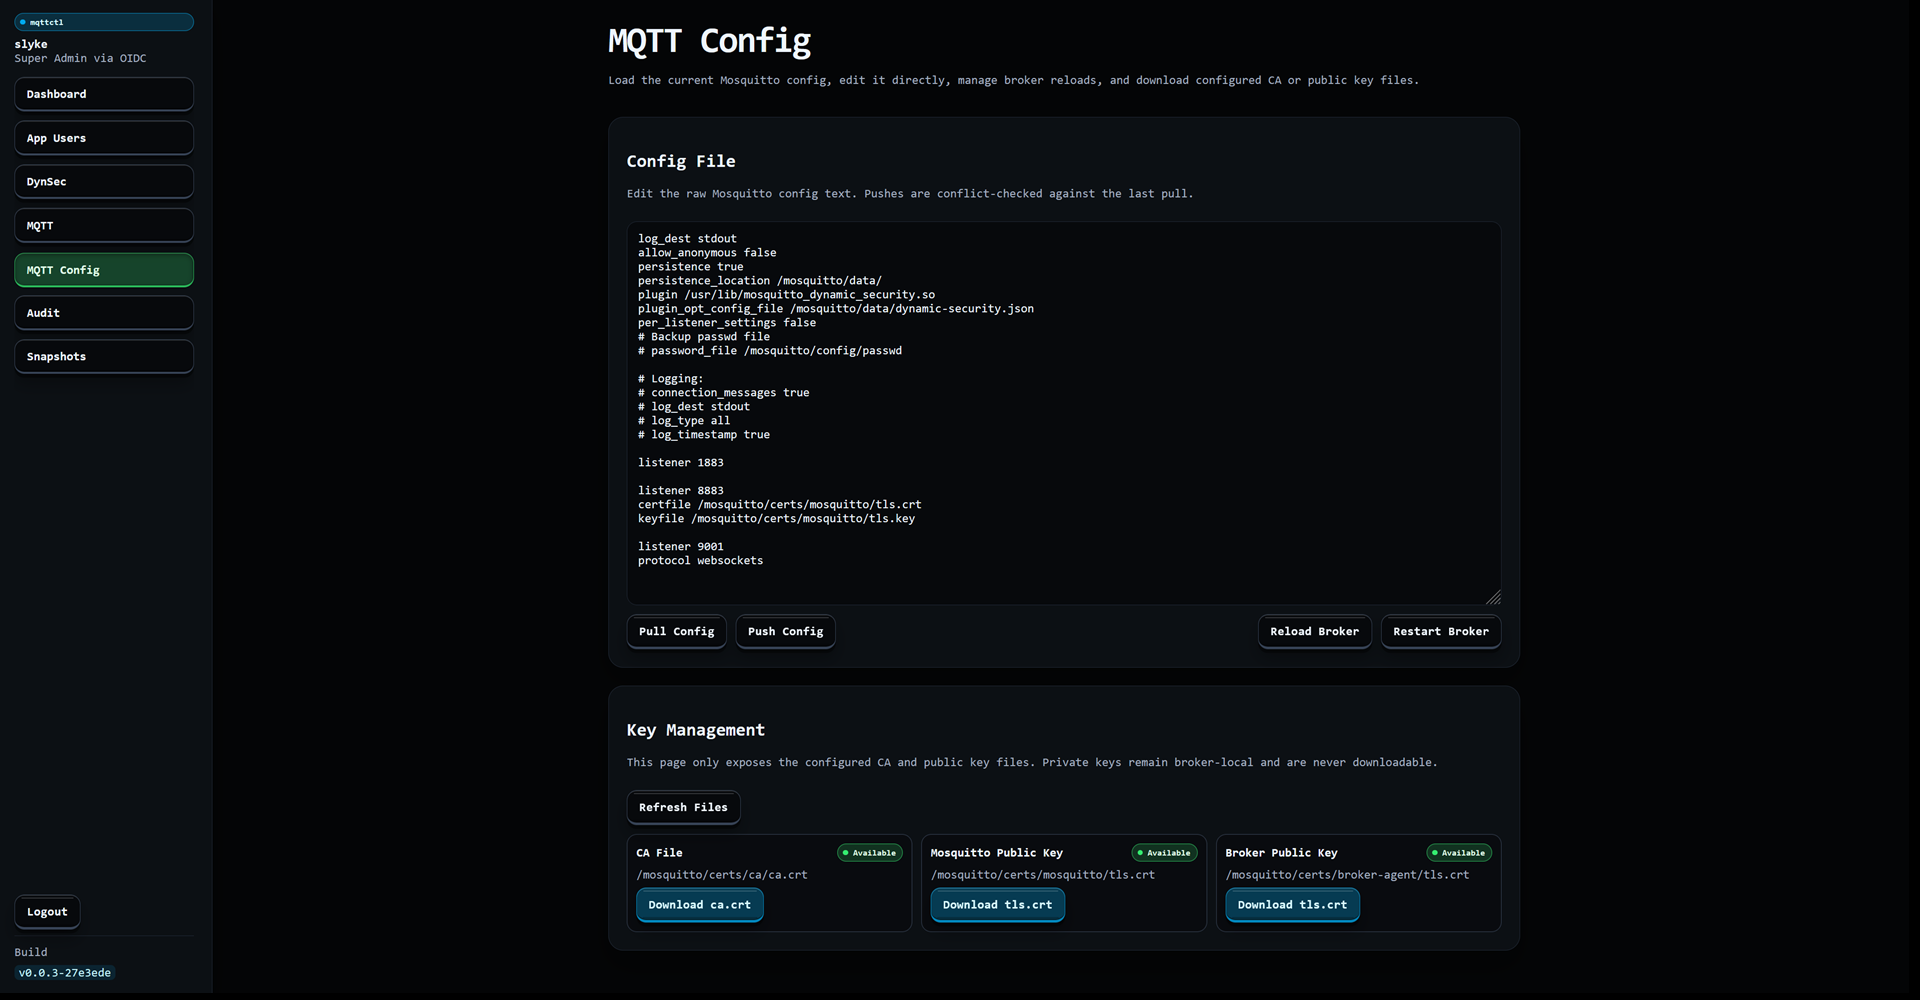
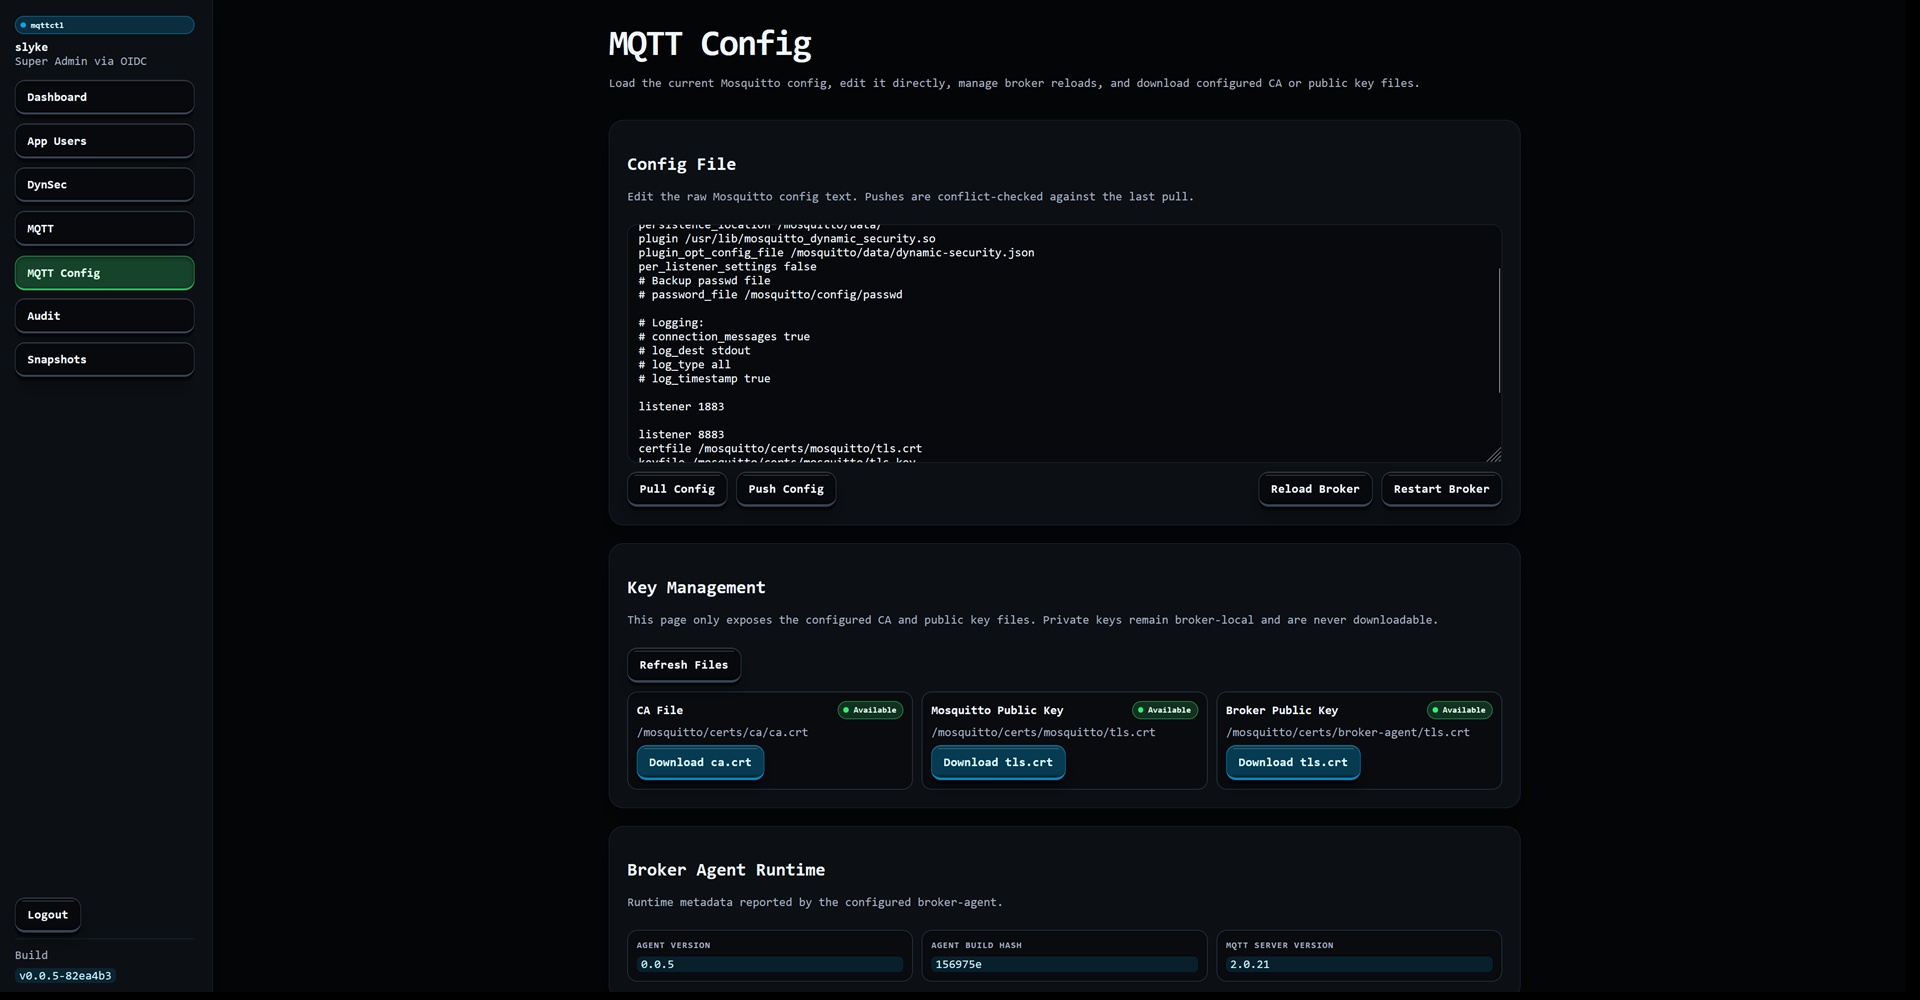
Update README screenshots

diff --git a/README.md b/README.md
@@ -15,7 +15,7 @@ Run, secure, and troubleshoot Mosquitto from one local-first control plane.
   <a href="./docs/images/13_mqtt_config.png"><img src="./docs/images/13_mqtt_config.png" alt="MQTT config editor" width="49%"></a>
 </p>
 
-Full gallery: [Dashboard](./docs/images/1_dashboard.png), [App Users](./docs/images/2_app_users.png), [DynSec Overview](./docs/images/3_dynsec_top.png), [DynSec Clients](./docs/images/4_dynsec_clients.png), [Client Assignments](./docs/images/5_dynsec_client_assignments.png), [Effective Permissions](./docs/images/6_dynsec_effective_permissions.png), [DynSec Roles](./docs/images/7_dynsec_roles.png), [ACLs and Groups](./docs/images/8_dynsec_acls_groups.png), [ACL Options](./docs/images/9_dynsec_acl_options.png), [MQTT Connection](./docs/images/10_mqtt_connection_options.png), [MQTT Connected Session](./docs/images/11_mqtt_connected.png), [MQTT Subscriptions](./docs/images/12_mqtt_subscriptions.png), [MQTT Config](./docs/images/13_mqtt_config.png), [Audit Log](./docs/images/14_audit.png), [Snapshots](./docs/images/15_snapshots.png).
+Full gallery: [Dashboard](./docs/images/1_dashboard.png), [App Users](./docs/images/2_app_users.png), [DynSec Overview](./docs/images/3_dynsec_top.png), [DynSec Clients](./docs/images/4_dynsec_clients.png), [Client Assignments](./docs/images/5_dynsec_client_assignments.png), [Effective Permissions](./docs/images/6_dynsec_effective_permissions.png), [DynSec Roles](./docs/images/7_dynsec_roles.png), [ACLs and Groups](./docs/images/8_dynsec_acls_groups.png), [ACL Options](./docs/images/9_dynsec_acl_options.png), [MQTT Connection](./docs/images/10_mqtt_connection_options.png), [MQTT Connected Session](./docs/images/11_mqtt_connected.png), [MQTT Subscriptions](./docs/images/12_mqtt_subscriptions.png), [MQTT Config](./docs/images/13_mqtt_config.png), [Audit Log](./docs/images/14_audit.png), [Audit Entry Modal](./docs/images/15_audit_modal.png), [Snapshots](./docs/images/16_snapshots.png).
 
 ## What The App Does Today
 
